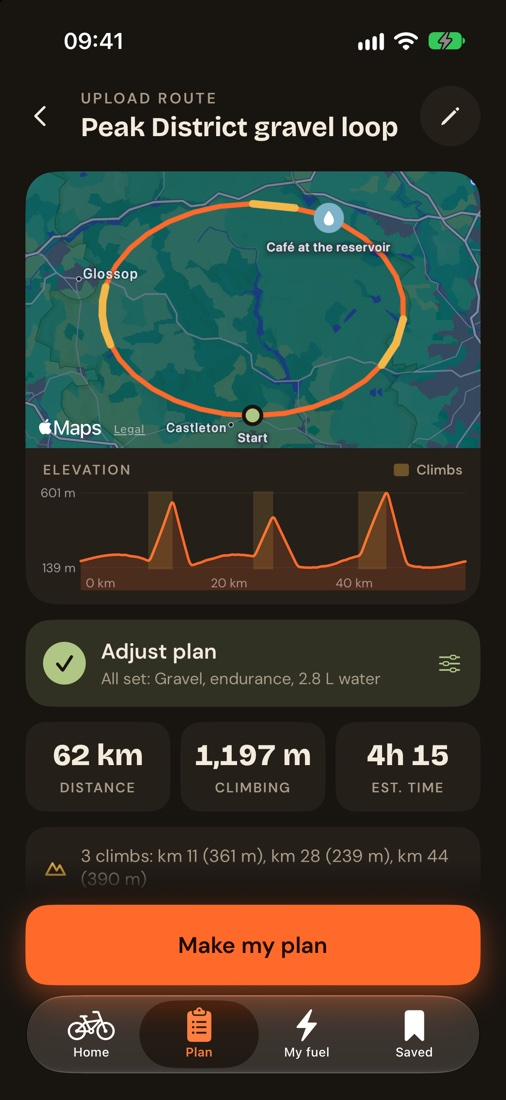
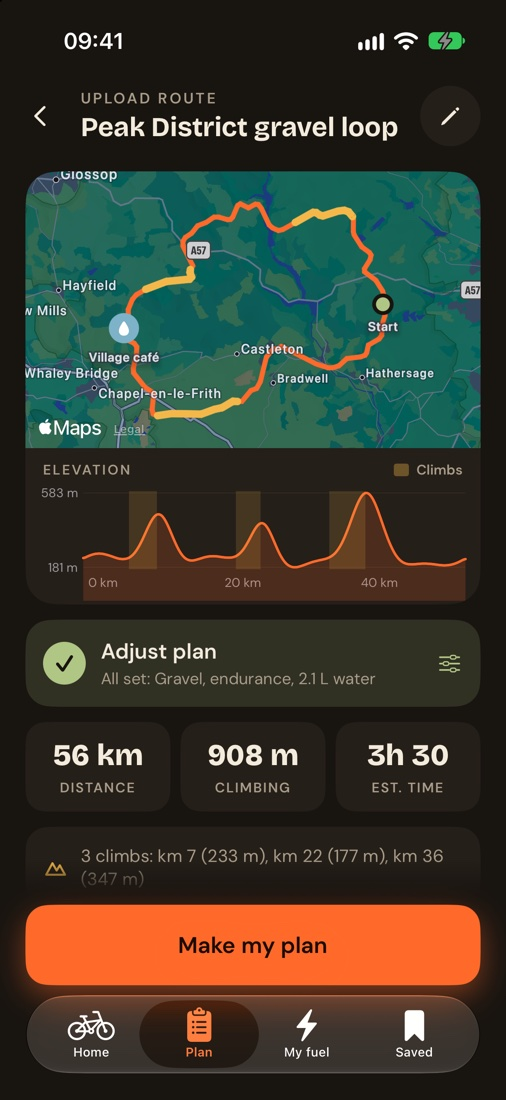
Website: natural-looking route screenshot

diff --git a/index.html b/index.html
@@ -64,7 +64,7 @@
         </div>
       </div>
       <div class="phones reveal">
-        <div class="phone back"><img src="img/route.jpg" alt="Tank’s route screen: a 62 km gravel loop in the Peak District with three climbs, 1,197 m of climbing, 4h 15 estimated"></div>
+        <div class="phone back"><img src="img/route.jpg" alt="Tank’s route screen: a 56 km gravel loop in the Peak District with three climbs, 908 m of climbing, 3h 30 estimated"></div>
         <div class="phone front"><img src="img/plan.jpg" alt="Tank’s fuel plan: 60 g carbs per hour, 500 ml fluid, 300 mg sodium"></div>
       </div>
     </div>
